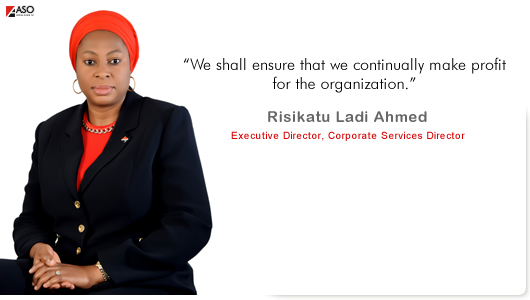
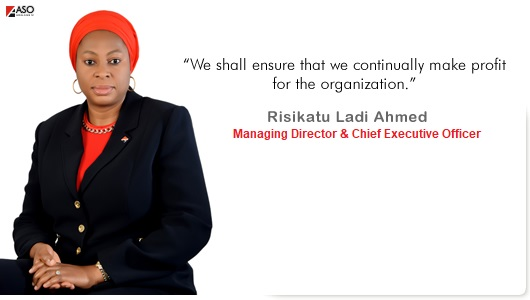
Changed MD to Risi

diff --git a/resources/templates/comp-management.html b/resources/templates/comp-management.html
@@ -22,14 +22,14 @@
                       <li><a href="../board/magashi/">Mr. Ali Magashi</a></li>
                       <!--<li><a href="../board/musa/">Dr. Musa Ahmed Musa</a></li>-->
                       <li><a href="../board/okeowo/">Mr. Olutoyin Okeowo</a></li>
-                      <li><a href="../board/adedigba/">Adekunle Adedigba</a></li>
+                      <!--<li><a href="../board/adedigba/">Adekunle Adedigba</a></li>-->
                       <li><a href="../board/ahmed/">Risikatu Ladi Ahmed</a></li>
                     </ul>
                   </li>
                   <li><a href="#">Management Team</a>
                     <ul>
                       <li class="first activeTrail"><a href="#">View All</a></li>
-                      <li><a href="adedigba/">Adekunle Adedigba</a></li>
+                      <!--<li><a href="adedigba/">Adekunle Adedigba</a></li>-->
                       <li><a href="ahmed/">Risikatu Ladi Ahmed</a></li>
                       <li><a href="dahunsi/">Titilayo Dahunsi</a></li>
                       <li><a href="bello/">Richard Bello</a></li>
@@ -46,23 +46,24 @@
           <div class="asomain">
             <p>ASO has a strong management team made up of competent, knowledgeable and experienced hands, who have an in-depth understanding of the mortgage industry.</p>
             <p class="smlgray">click to view profile</p>
-            <div class="demo">
+            <!--<div class="demo">
               <div id="capslide_img_cont1" class="ic_container">
                 <a href="adedigba/"><img src="../../resources/img/teams/adedigba_small.png" alt="" width="215" height="300"></a>
                 <div class="overlay" style="display:none;"></div> <!-- end: overlay -->
-                <div class="ic_caption">
+                <!--<div class="ic_caption">
                   <p class="ic_category">Adekunle Demola Adedigba</p>
-                  <p class="ic_text">Managing Director &amp;<br> Chief Executive Officer</p>
-                </div> <!-- end: ic_caption -->
-              </div> <!-- end: capslide_img_cont1 -->
-            </div> <!-- end: demo -->
+                  <p class="ic_text">Managing Director &amp;<br> Chief Executive Officer</p>-->
+                <!--</div> <!-- end: ic_caption -->
+              <!--</div> <!-- end: capslide_img_cont1 -->
+            <!--</div> <!-- end: demo -->
             <div class="demo">
               <div id="capslide_img_cont2" class="ic_container">
                 <a href="adedigba/"><img src="../../resources/img/teams/ahmed_small.jpg" alt="" width="215" height="300"></a>
                 <div class="overlay" style="display:none;"></div> <!-- end: overlay -->
                 <div class="ic_caption">
                   <p class="ic_category">Risikatu Ladi Ahmed</p>
-                  <p class="ic_text">Executive Director,<br> Corporate Services Director</p>
+                  <!--<p class="ic_text">Executive Director,<br> Corporate Services Director</p>-->
+                  <p class="ic_text">Managing Director &amp;<br> Chief Executive Officer</p>
                 </div> <!-- end: ic_caption -->
               </div> <!-- end: capslide_img_cont2 -->
             </div> <!-- end: demo -->

diff --git a/resources/templates/comp-team-ahmed.html b/resources/templates/comp-team-ahmed.html
@@ -59,11 +59,14 @@
 
                 <p>Risi has over two decades of banking experience. Her Banking career started with Continental Merchant Bank in Lagos State, where she served as a Youth Corper (NYSC). Then Savannah Bank Plc (1993 to 1999) where she served as an Operations Staff and a Resident Auditor. She subsequently worked in Diamond Bank Plc (July 1999 to August 2015). Her exposure in the banking industry spanned through a number of job functions including Credit and Marketing, Banking Operations, Recovery, Audit and Regional Business in the North East.</p>
 
-                <p>Prior to her appointment as the Executive Director, Institutional Banking and Public Sector. Risi was the Regional Manager, North East at Diamond Bank Plc. She has a track record of excellent performance which has earned her several commendations and awards. She is currently the Executive Director in charge of Corporate Services Directorate, overseeing Corporate Services, Operations & Technology and Real Estate Management.</p>
+                <p>Prior to her appointment as the Executive Director, Corporate Services Directorate, she was the Executive Director, Institutional Banking and Public Sector. Risi was the Regional Manager, North East at Diamond Bank Plc. She has a track record of excellent performance which has earned her several commendations and awards.</p>
 
-                <p>She is an Honorary Senior Member of the Chartered Institute of Bankers of Nigeria (HCIB) and currently serving as a member of the Institute’s Membership Development & Services Committee (MD & SC) and a member of the Institute’s Consultative Committee for the 12th annual Banking and Finance Conference 2019. </p>
+                <p>She is currently the Managing Director & Chief Executive Officer of ASO Savings & Loans Plc.</p>
+
+                <p>She is an Honorary Senior Member of the Chartered Institute of Bankers of Nigeria (HCIB) and currently serving as a member of the Institute’s Membership Development & Services Committee (MD & SC) and a member of the Institute’s Consultative Committee for the 12th annual Banking and Finance Conference 2019.</p>
                 
-                <p>She is an alumna of Lagos Business School (SMP), University of Pennsylvania, Wharton Advanced Management Program and have also gone through leadership courses in Harvard Business School. </p>
+                <p>She is an alumna of Lagos Business School (SMP), University of Pennsylvania, Wharton Advanced Management Program and have also gone through leadership courses in Harvard Business School.</p>
+                
               </div> <!-- end: teamcontent -->
             </div>  <!-- end: teamprofile -->
           </div> <!-- end: asomain -->	
